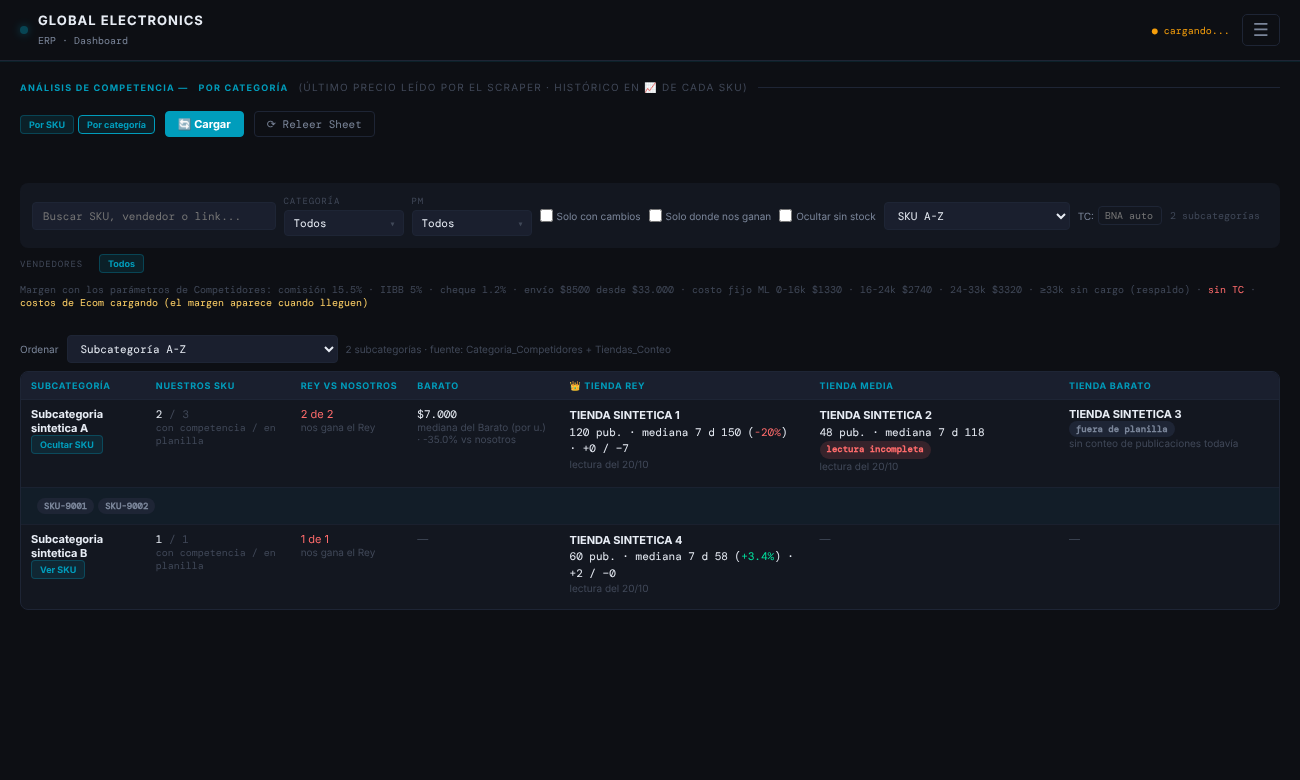
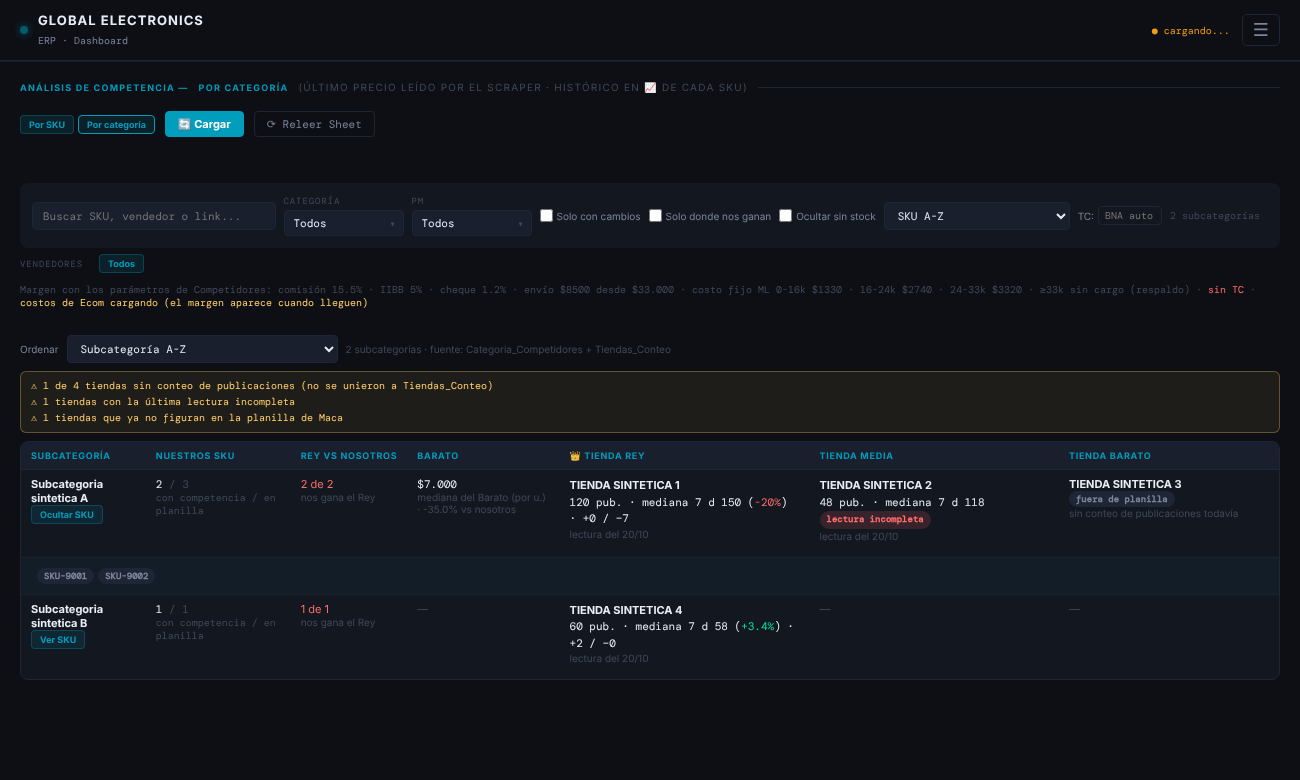
Competencia 3.3: diagnóstico en pantalla de lo que no se pudo cruzar (SKUs_Nuestros, tiendas sin conteo, lecturas incompletas)
Claude-Session: https://claude.ai/code/session_018BD6E98AYWtTsGhsVKSazC

diff --git a/docs/index.html b/docs/index.html
@@ -3215,6 +3215,9 @@ function acCatOrdenar(gs,modo){const v=g=>{const t=g.tiendas.map(x=>x.conteo&&pa
   const c=gs.slice();if(modo==='ganan')c.sort((a,b)=>(b.reyGana-a.reyGana)||a.sub.localeCompare(b.sub));
   else if(modo==='var')c.sort((a,b)=>{const x=v(a),y=v(b);return (x==null)-(y==null)||(x-y)||a.sub.localeCompare(b.sub);});
   else c.sort((a,b)=>a.sub.localeCompare(b.sub));return c;}
+// Diagnóstico de la vista (para validar con datos reales de un vistazo): qué no se pudo cruzar.
+function acCatDiag(gs){const t=gs.reduce((a,g)=>a.concat(g.tiendas),[]);
+  return {subs:gs.length,sinSkus:gs.filter(g=>!g.nSkus).length,sinCompetencia:gs.filter(g=>g.nSkus&&!g.rows.length).length,skusSinCompetencia:gs.reduce((n,g)=>n+g.nSkus-g.rows.length,0),tiendas:t.length,tiendasSinConteo:t.filter(x=>!x.conteo).length,incompletas:t.filter(x=>x.conteo&&!x.conteo.completa).length,fueraPlanilla:t.filter(x=>x.desactualizada).length};}
 function acTiendaHtml(t){
   const c=t.conteo,nm=`<b>${acEsc(t.entidad||'?')}</b>`+(t.desactualizada?' <span class="badge badge-gray" title="Ya no figura en A-CATEGORIAS de la planilla de Maca (se conserva el último dato)">fuera de planilla</span>':'');
   if(!c)return `<div style="margin-bottom:6px">${nm}<div style="font-size:10px;color:var(--text3)">sin conteo de publicaciones todavía</div></div>`;
@@ -3232,6 +3235,13 @@ function acCatHtml(gs){
     const det=ab?`<tr class="ac-ctx-row"><td colspan="7" style="background:rgba(0,157,188,.05);padding:8px 14px">${g.rows.length?g.rows.map((f,j)=>`<span class="badge badge-gray" style="margin:2px;cursor:pointer" onclick="acCatVerSku(${i},${j})" title="Ver este SKU en la vista por SKU">${acEsc(f.sku)}</span>`).join(''):'<span style="color:var(--text3);font-size:10px">Ningún SKU de la subcategoría con competencia cargada.</span>'}</td></tr>`:'';
     return `<tr><td style="vertical-align:top"><b>${acEsc(g.sub)}</b><div><button class="btn-xs" onclick="acCatToggle(${i})">${ab?'Ocultar':'Ver'} SKU</button></div></td><td style="vertical-align:top;font-family:'DM Mono',monospace">${g.rows.length}<span style="color:var(--text3)"> / ${g.nSkus}</span><div style="font-size:10px;color:var(--text3)">con competencia / en planilla</div></td><td style="vertical-align:top">${rey}</td><td style="vertical-align:top">${bar}</td>${col(g,'Rey')}${col(g,'Media')}${col(g,'Barato')}</tr>${det}`;}).join('');
   return `<div class="table-wrap"><table><thead><tr><th>Subcategoría</th><th>Nuestros SKU</th><th>Rey vs nosotros</th><th>Barato</th><th>👑 Tienda Rey</th><th>Tienda Media</th><th>Tienda Barato</th></tr></thead><tbody>${filas}</tbody></table></div>`;}
+function acCatDiagHtml(d){const av=[];
+  if(d.sinSkus)av.push(`${d.sinSkus} subcategorías con SKUs_Nuestros vacío o ilegible`);
+  if(d.sinCompetencia)av.push(`${d.sinCompetencia} subcategorías cuyos SKU no tienen competencia cargada (¿otro formato de SKU?)`);
+  if(d.tiendasSinConteo)av.push(`${d.tiendasSinConteo} de ${d.tiendas} tiendas sin conteo de publicaciones (no se unieron a Tiendas_Conteo)`);
+  if(d.incompletas)av.push(`${d.incompletas} tiendas con la última lectura incompleta`);
+  if(d.fueraPlanilla)av.push(`${d.fueraPlanilla} tiendas que ya no figuran en la planilla de Maca`);
+  return av.length?`<div style="margin-bottom:8px;padding:6px 10px;background:rgba(255,209,102,.08);border:1px solid rgba(255,209,102,.3);border-radius:6px;font-size:10px;color:var(--yellow);font-family:'DM Mono',monospace;line-height:1.6">${av.map(x=>'⚠ '+x).join('<br>')}</div>`:'';}
 function acCatRender(filas,fl){
   const cat=AC.modo==='cat',w=qs('ac-cat-wrap');if(!w)return;
   qs('ac-table-wrap').style.display=cat?'none':'';w.style.display=cat?'':'none';
@@ -3241,7 +3251,7 @@ function acCatRender(filas,fl){
   const hay=!!(fl.search||fl.cats||fl.pms||(fl.vend&&fl.vend.size)||fl.soloCambios||fl.soloGanan||fl.ocultarSinStock);
   AC.catGs=acCatOrdenar(acCategoriasArmar(AC.data,filas,hay,normSku),AC.catSort);
   const ops=[['sub','Subcategoría A-Z'],['ganan','Donde más nos gana el Rey'],['var','Tienda más por debajo de su mediana']].map(([v,t])=>`<option value="${v}"${AC.catSort===v?' selected':''}>${t}</option>`).join('');
-  w.innerHTML=`<div style="display:flex;gap:8px;align-items:center;margin-bottom:8px;font-size:10px;color:var(--text2)">Ordenar<select class="fi" onchange="AC.catSort=this.value;acRender()">${ops}</select><span style="color:var(--text3)">${AC.catGs.length} subcategorías · fuente: Categoria_Competidores + Tiendas_Conteo</span></div>`+acCatHtml(AC.catGs);
+  w.innerHTML=`<div style="display:flex;gap:8px;align-items:center;margin-bottom:8px;font-size:10px;color:var(--text2)">Ordenar<select class="fi" onchange="AC.catSort=this.value;acRender()">${ops}</select><span style="color:var(--text3)">${AC.catGs.length} subcategorías · fuente: Categoria_Competidores + Tiendas_Conteo</span></div>${acCatDiagHtml(acCatDiag(AC.catGs))}`+acCatHtml(AC.catGs);
   qs('ac-count').textContent=AC.catGs.length+' subcategorías';}
 function acModo(m){AC.modo=m;acRender();}
 function acCatToggle(i){const g=(AC.catGs||[])[i];if(!g)return;AC.catAb[g.sub]=!AC.catAb[g.sub];acRender();}

diff --git a/backend/test_front_categoria.py b/backend/test_front_categoria.py
@@ -10,7 +10,7 @@ import pytest
 from test_front_analisis import INDEX, _fn
 
 pytestmark = pytest.mark.skipif(not shutil.which('node'), reason='sin node')
-FUNS = ('acMediana', 'acCatSkus', 'acTiendaConteo', 'acRolRank', 'acCategoriasArmar', 'acCatOrdenar', 'acTiendaHtml', 'acCatHtml', 'acEsc', 'acFechaCorta', 'fmt$')
+FUNS = ('acCatDiag', 'acCatDiagHtml', 'acMediana', 'acCatSkus', 'acTiendaConteo', 'acRolRank', 'acCategoriasArmar', 'acCatOrdenar', 'acTiendaHtml', 'acCatHtml', 'acEsc', 'acFechaCorta', 'fmt$')
 
 
 def js(cuerpo, datos):
@@ -88,3 +88,9 @@ def test_html_conteo_mediana_nuevas_incompleta_y_sin_datos():
     assert '120 pub.' in h[0] and 'mediana 7 d 150' in h[0] and '-20%' in h[0] and '+0 / −7' in h[0]
     assert 'lectura incompleta' in h[0] and 'captcha' in h[0] and 'fuera de planilla' in h[0] and 'sin conteo de publicaciones todavía' in h[0]
     assert '1 de 2' in h[0] and 'acCatVerSku(2,0)' in h[0] and h[1].startswith('<div') and 'Sin subcategorías' in h[1]
+
+
+def test_diagnostico_de_lo_que_no_se_pudo_cruzar():
+    d = js("const gs=acCategoriasArmar(X.D,X.filas,false,norm);console.log(JSON.stringify([acCatDiag(gs),acCatDiagHtml(acCatDiag(gs)),acCatDiagHtml({})]))", {'D': D, 'filas': FILAS})
+    assert d[0] == {'subs': 3, 'sinSkus': 1, 'sinCompetencia': 0, 'skusSinCompetencia': 1, 'tiendas': 5, 'tiendasSinConteo': 1, 'incompletas': 1, 'fueraPlanilla': 1}
+    assert '1 subcategorías con SKUs_Nuestros vacío' in d[1] and '1 de 5 tiendas sin conteo' in d[1] and d[2] == ''
